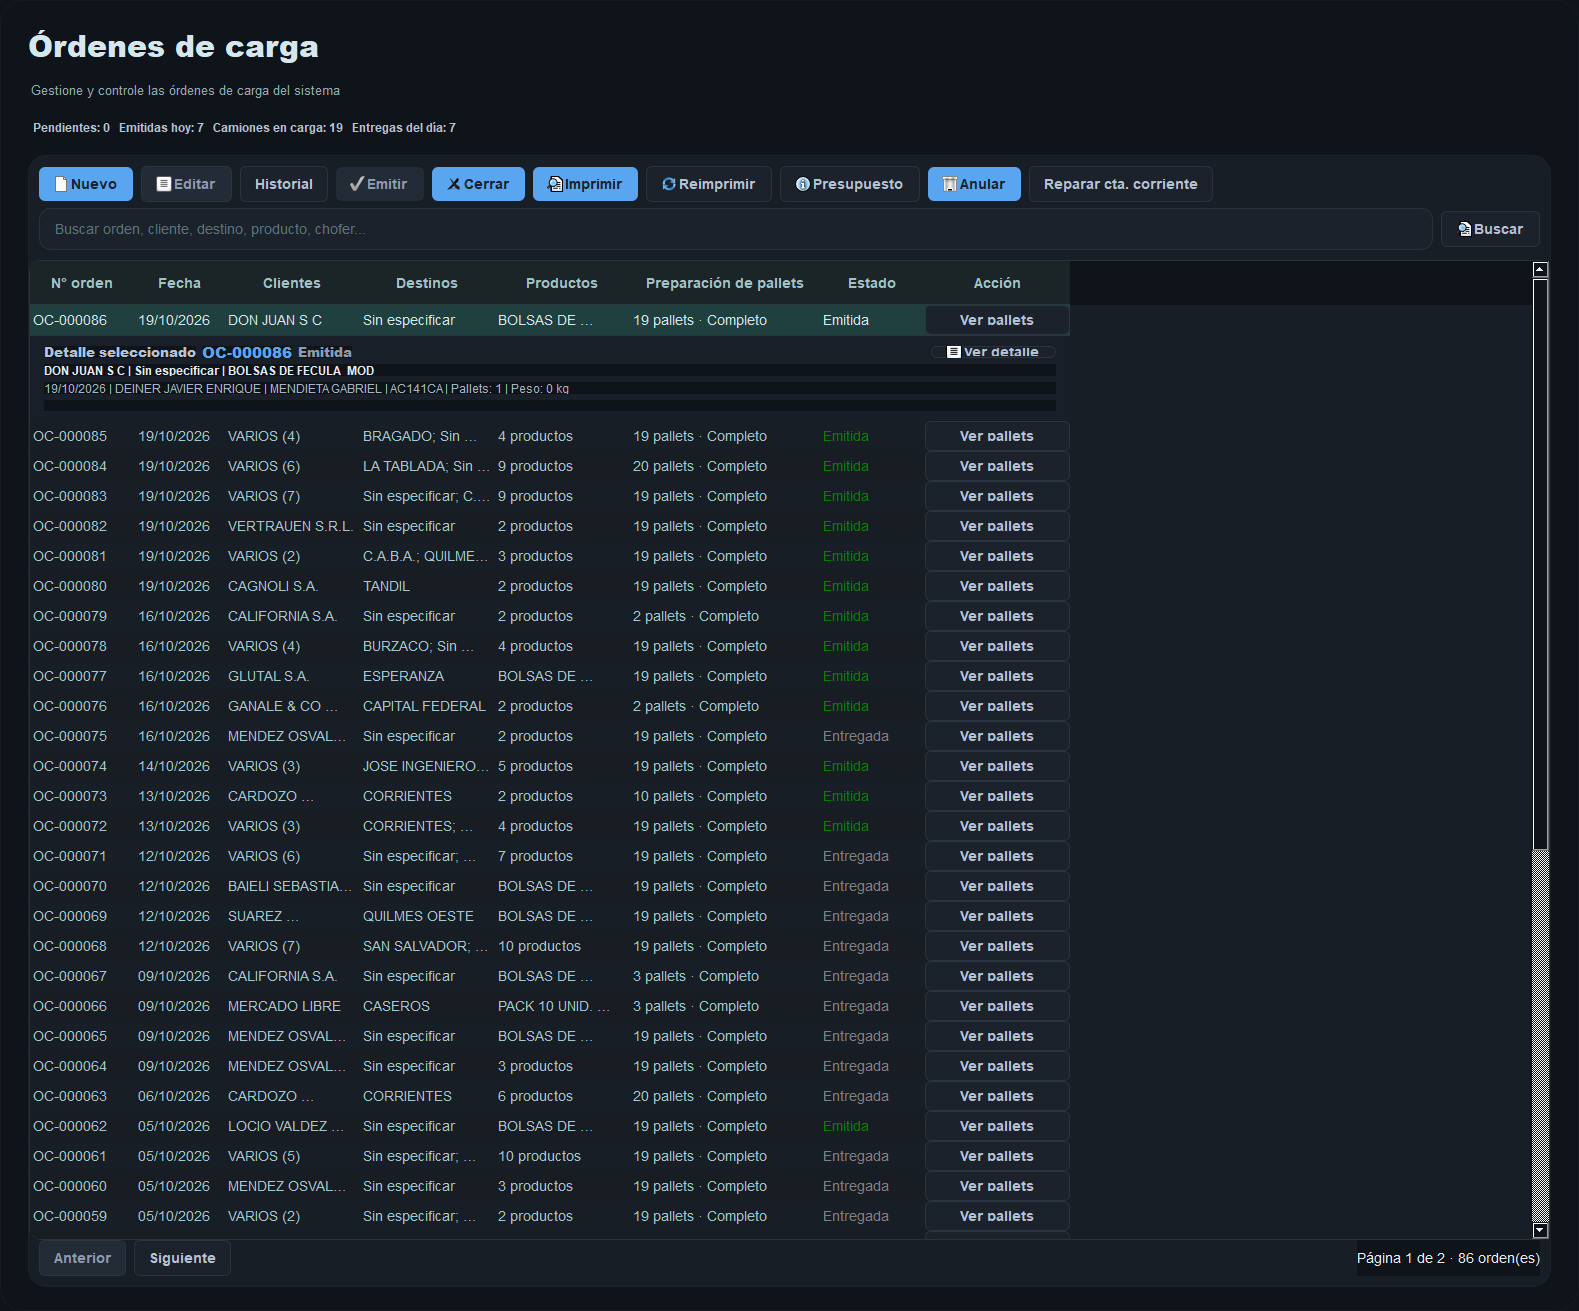
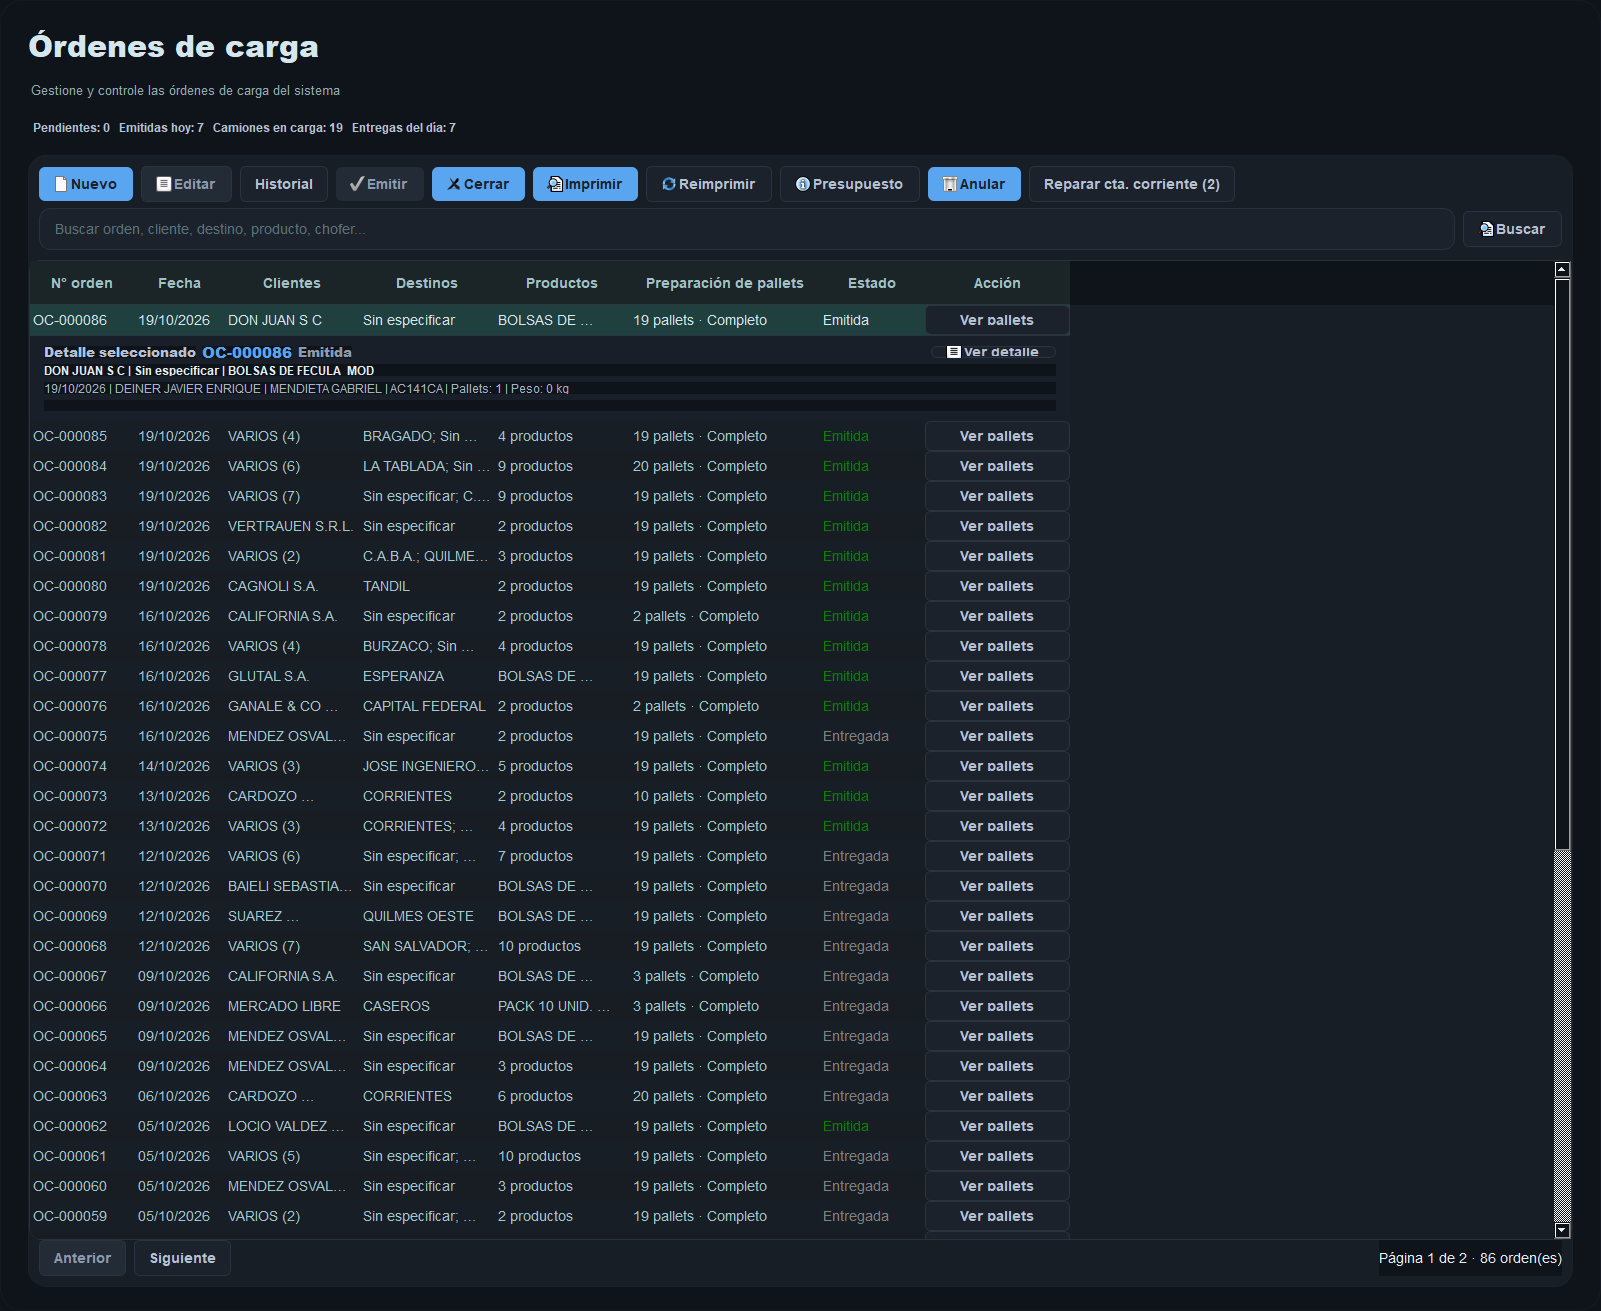
feat(#726): el boton de administrador muestra cuantas ordenes estan sin cuenta corriente
La pregunta que queda abierta cuando esto pasa es 'como me entero'. El numero
de ordenes emitidas sin movimiento va EN el boton de la pantalla de ordenes:
el administrador lo ve al entrar, sin tener que abrir el dialogo ni revisar
la base a mano.

El conteo usa una consulta barata (tres queries) para poder recalcularse en
cada refresh de la grilla.

diff --git a/app/services/load_order_ledger_repair_service.py b/app/services/load_order_ledger_repair_service.py
@@ -118,6 +118,60 @@ class LoadOrderLedgerRepairService:
         )
 
     # -- Detección ---------------------------------------------------------
+    def count_broken_orders(self) -> int:
+        """Cuántas órdenes emitidas o cerradas están sin cuenta corriente.
+
+        Consulta barata (tres queries) para poder mostrar el número en la
+        pantalla sin abrir el diálogo. Cuenta **órdenes**, no documentos: es
+        la unidad que el administrador tiene que resolver.
+        """
+        from app.models.accounting import ClientAccountMovement
+
+        orders = list(
+            LoadOrder.select().where(LoadOrder.status.in_(REPAIRABLE_STATUSES))
+        )
+        if not orders:
+            return 0
+        order_ids = [o.id for o in orders]
+        budgets = list(
+            Budget.select().where(
+                (Budget.load_order << order_ids)
+                & (Budget.origin == Budget.ORIGIN_LOAD_ORDER)
+            )
+        )
+        if not budgets:
+            return 0
+
+        budget_ids = [b.id for b in budgets]
+        vinculados = {
+            m.source_ref
+            for m in ClientAccountMovement.select().where(
+                ClientAccountMovement.source_ref
+                << [f"Budget:{budget_id}" for budget_id in budget_ids]
+            )
+        }
+        legacy = {
+            (m.load_order_id, m.client_id, m.movement_type)
+            for m in ClientAccountMovement.select().where(
+                (ClientAccountMovement.load_order << order_ids)
+                & (ClientAccountMovement.is_reversal == False)  # noqa: E712
+            )
+        }
+
+        ordenes_rojas = set()
+        for budget in budgets:
+            if f"Budget:{budget.id}" in vinculados:
+                continue
+            tipo = (
+                ClientAccountMovement.TYPE_LOAD_ORDER_IMMEDIATE
+                if budget.timing == Budget.TIMING_IMMEDIATE
+                else ClientAccountMovement.TYPE_LOAD_ORDER_DEFERRED
+            )
+            if (budget.load_order_id, budget.client_id, tipo) in legacy:
+                continue
+            ordenes_rojas.add(budget.load_order_id)
+        return len(ordenes_rojas)
+
     def find_broken_orders(self) -> list[OrderLedgerGap]:
         """Todas las órdenes emitidas o cerradas con faltantes. No escribe nada."""
         findings = []

diff --git a/app/ui/desktop_app.py b/app/ui/desktop_app.py
@@ -125,6 +125,9 @@ from app.ui.audit_query_page import AuditQueryPage
 from app.ui.audit_reason_dialog import AuditReasonDialog
 from app.ui.load_order_annul_dialog import LoadOrderAnnulDialog
 from app.ui.load_order_ledger_repair_dialog import LoadOrderLedgerRepairDialog
+from app.services.load_order_ledger_repair_service import (
+    LoadOrderLedgerRepairService,
+)
 from app.ui.dashboard import DashboardService, future_module_message
 from app.ui.load_orders import build_load_order_workspace_spec
 from app.ui.load_order_closure_dialog import LoadOrderClosureDialog
@@ -2018,6 +2021,9 @@ class FemagDesktopWindow(QMainWindow):
             current_user=self.shell.username,
             prints_dir=LOAD_ORDER_PRINTS_DIR,
         )
+        repair_service = LoadOrderLedgerRepairService(
+            current_user=self.shell.username
+        )
         selected_order_id: dict[str, int | None] = {"value": None}
         refreshing_selection: dict[str, bool] = {"value": False}
 
@@ -2168,6 +2174,17 @@ class FemagDesktopWindow(QMainWindow):
                 f"Página {page_state['page']} de {page_state['pages']} · "
                 f"{page_state['total']} orden(es)"
             )
+            if can_repair_ledger:
+                # El número de órdenes sin cuenta corriente va EN el botón: es
+                # la señal de que hay plata que no está registrada, sin que
+                # nadie tenga que abrir el diálogo para enterarse.
+                try:
+                    rotas = repair_service.count_broken_orders()
+                except Exception:
+                    rotas = 0
+                repair_button.setText(
+                    f"Reparar cta. corriente ({rotas})" if rotas else "Reparar cta. corriente"
+                )
             previous_page_button.setEnabled(page_state["page"] > 1)
             next_page_button.setEnabled(page_state["page"] < page_state["pages"])
             selected_id = selected_order_id["value"] if selected_order_id["value"] is not None else None

diff --git a/tests/test_issue_726_admin_repair_ui.py b/tests/test_issue_726_admin_repair_ui.py
@@ -68,6 +68,27 @@ def test_un_usuario_que_no_es_admin_no_puede_reparar(db):
     assert app is not None
 
 
+def test_el_boton_muestra_cuantas_ordenes_estan_sin_cuenta_corriente(db):
+    """El número de órdenes rotas va EN el botón: la señal de plata perdida."""
+    from PyQt5.QtWidgets import QApplication, QPushButton
+
+    from app.ui.desktop_app import FemagDesktopWindow
+
+    app = QApplication.instance() or QApplication([])
+    admin, _consulta = _usuarios()
+    data = _maestros()
+    _orden_emitida_sin_cuenta_corriente(data)
+
+    ventana = FemagDesktopWindow(user=admin, demo_mode=True)
+    page = ventana._load_order_page()
+    boton = page.findChild(QPushButton, "repairLedgerLoadOrderButton")
+
+    assert boton is not None
+    assert "(1)" in boton.text(), f"El botón tiene que mostrar el conteo: {boton.text()!r}"
+    ventana.close()
+    assert app is not None
+
+
 def test_el_boton_de_reparar_solo_lo_ve_el_administrador(db):
     from PyQt5.QtWidgets import QApplication, QPushButton
 
